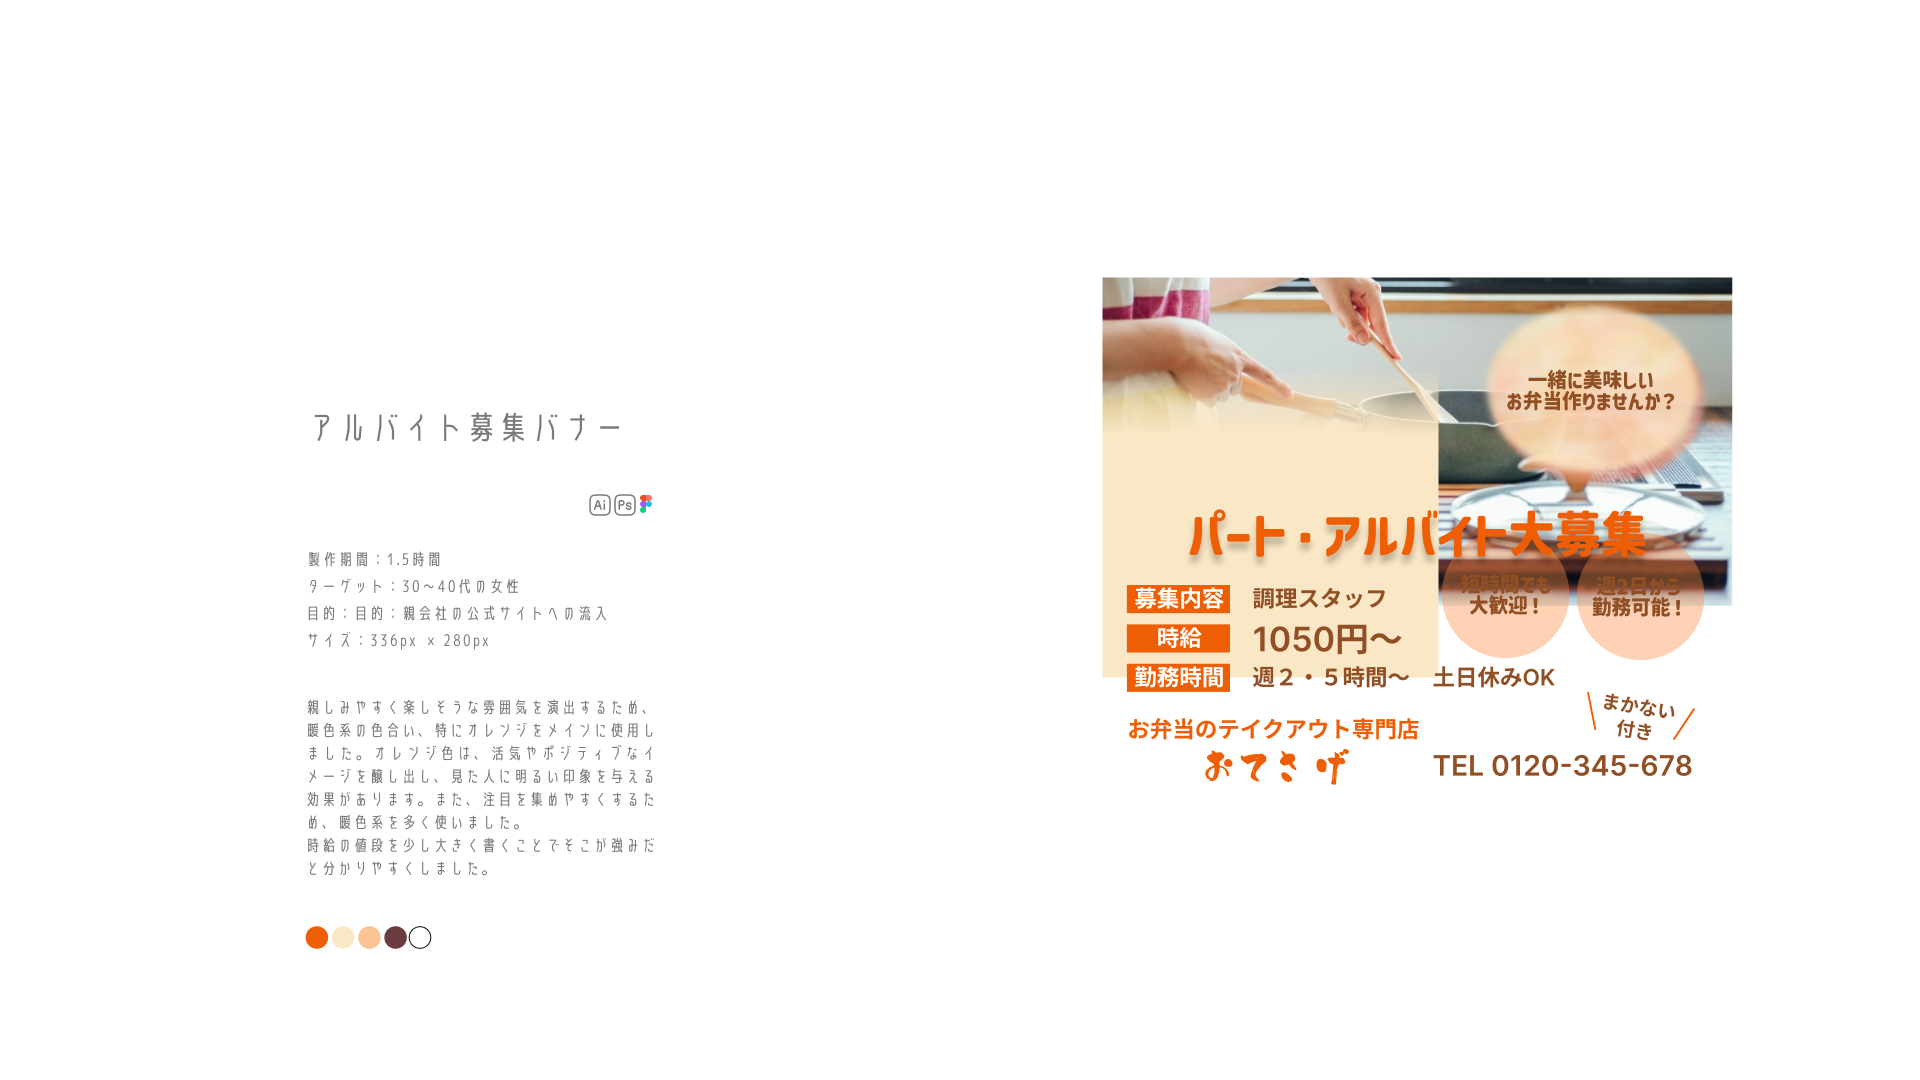
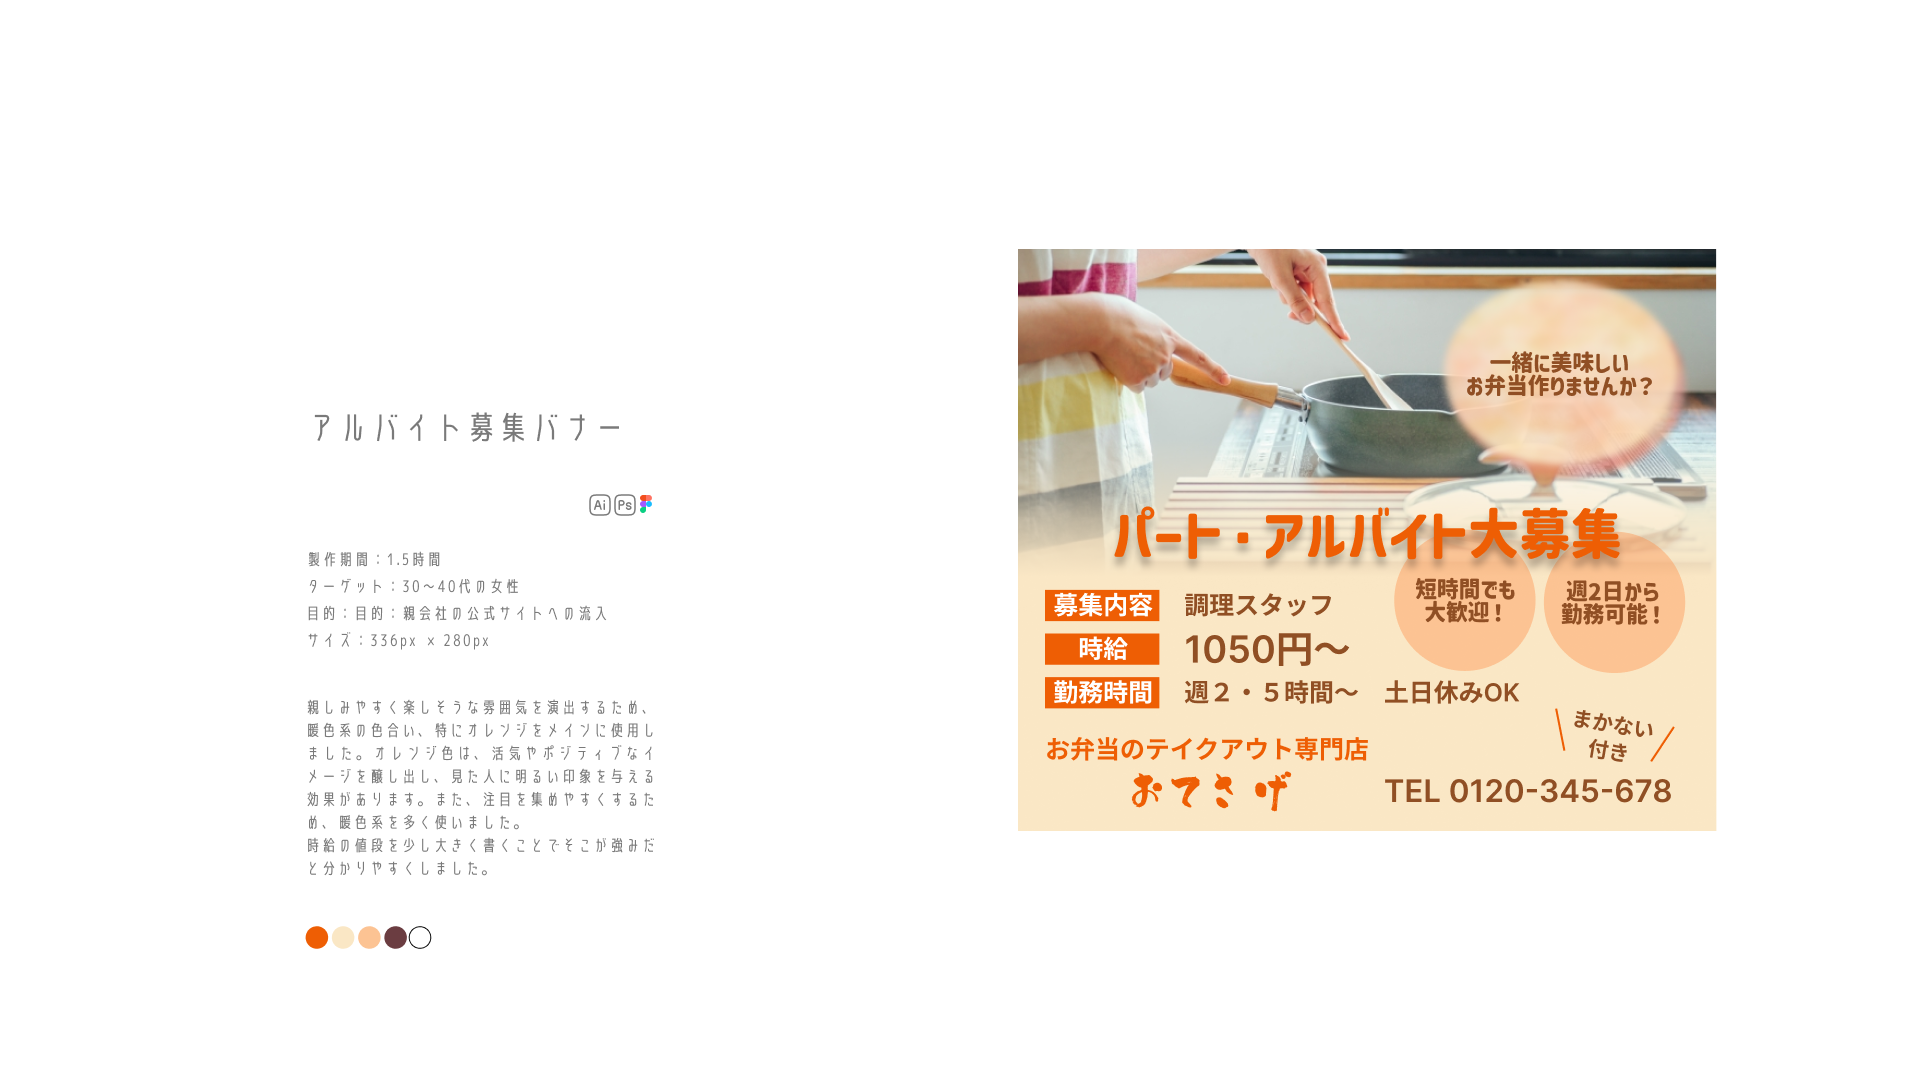
6

Changed region(s): [[0.5312, 0.2139, 0.9062, 0.7944]]

diff --git a/video.css b/video.css
@@ -216,4 +216,14 @@ a,
         font-size: 0.9rem;
         padding: 4px 10px;
     }
+
+    #work-video .work-image {
+        height: 150px;
+    }
+
+    #work-video .work-image img {
+        transform: scale(0.9);
+        /* ← 画像全体を少し縮小 */
+    }
+
 }

diff --git a/index.html b/index.html
@@ -97,7 +97,6 @@
                             rel="noopener noreferrer">vivivit</a>
                         もぜひ見てみてください！
 
-
                     </p>
                 </div>
             </div>
